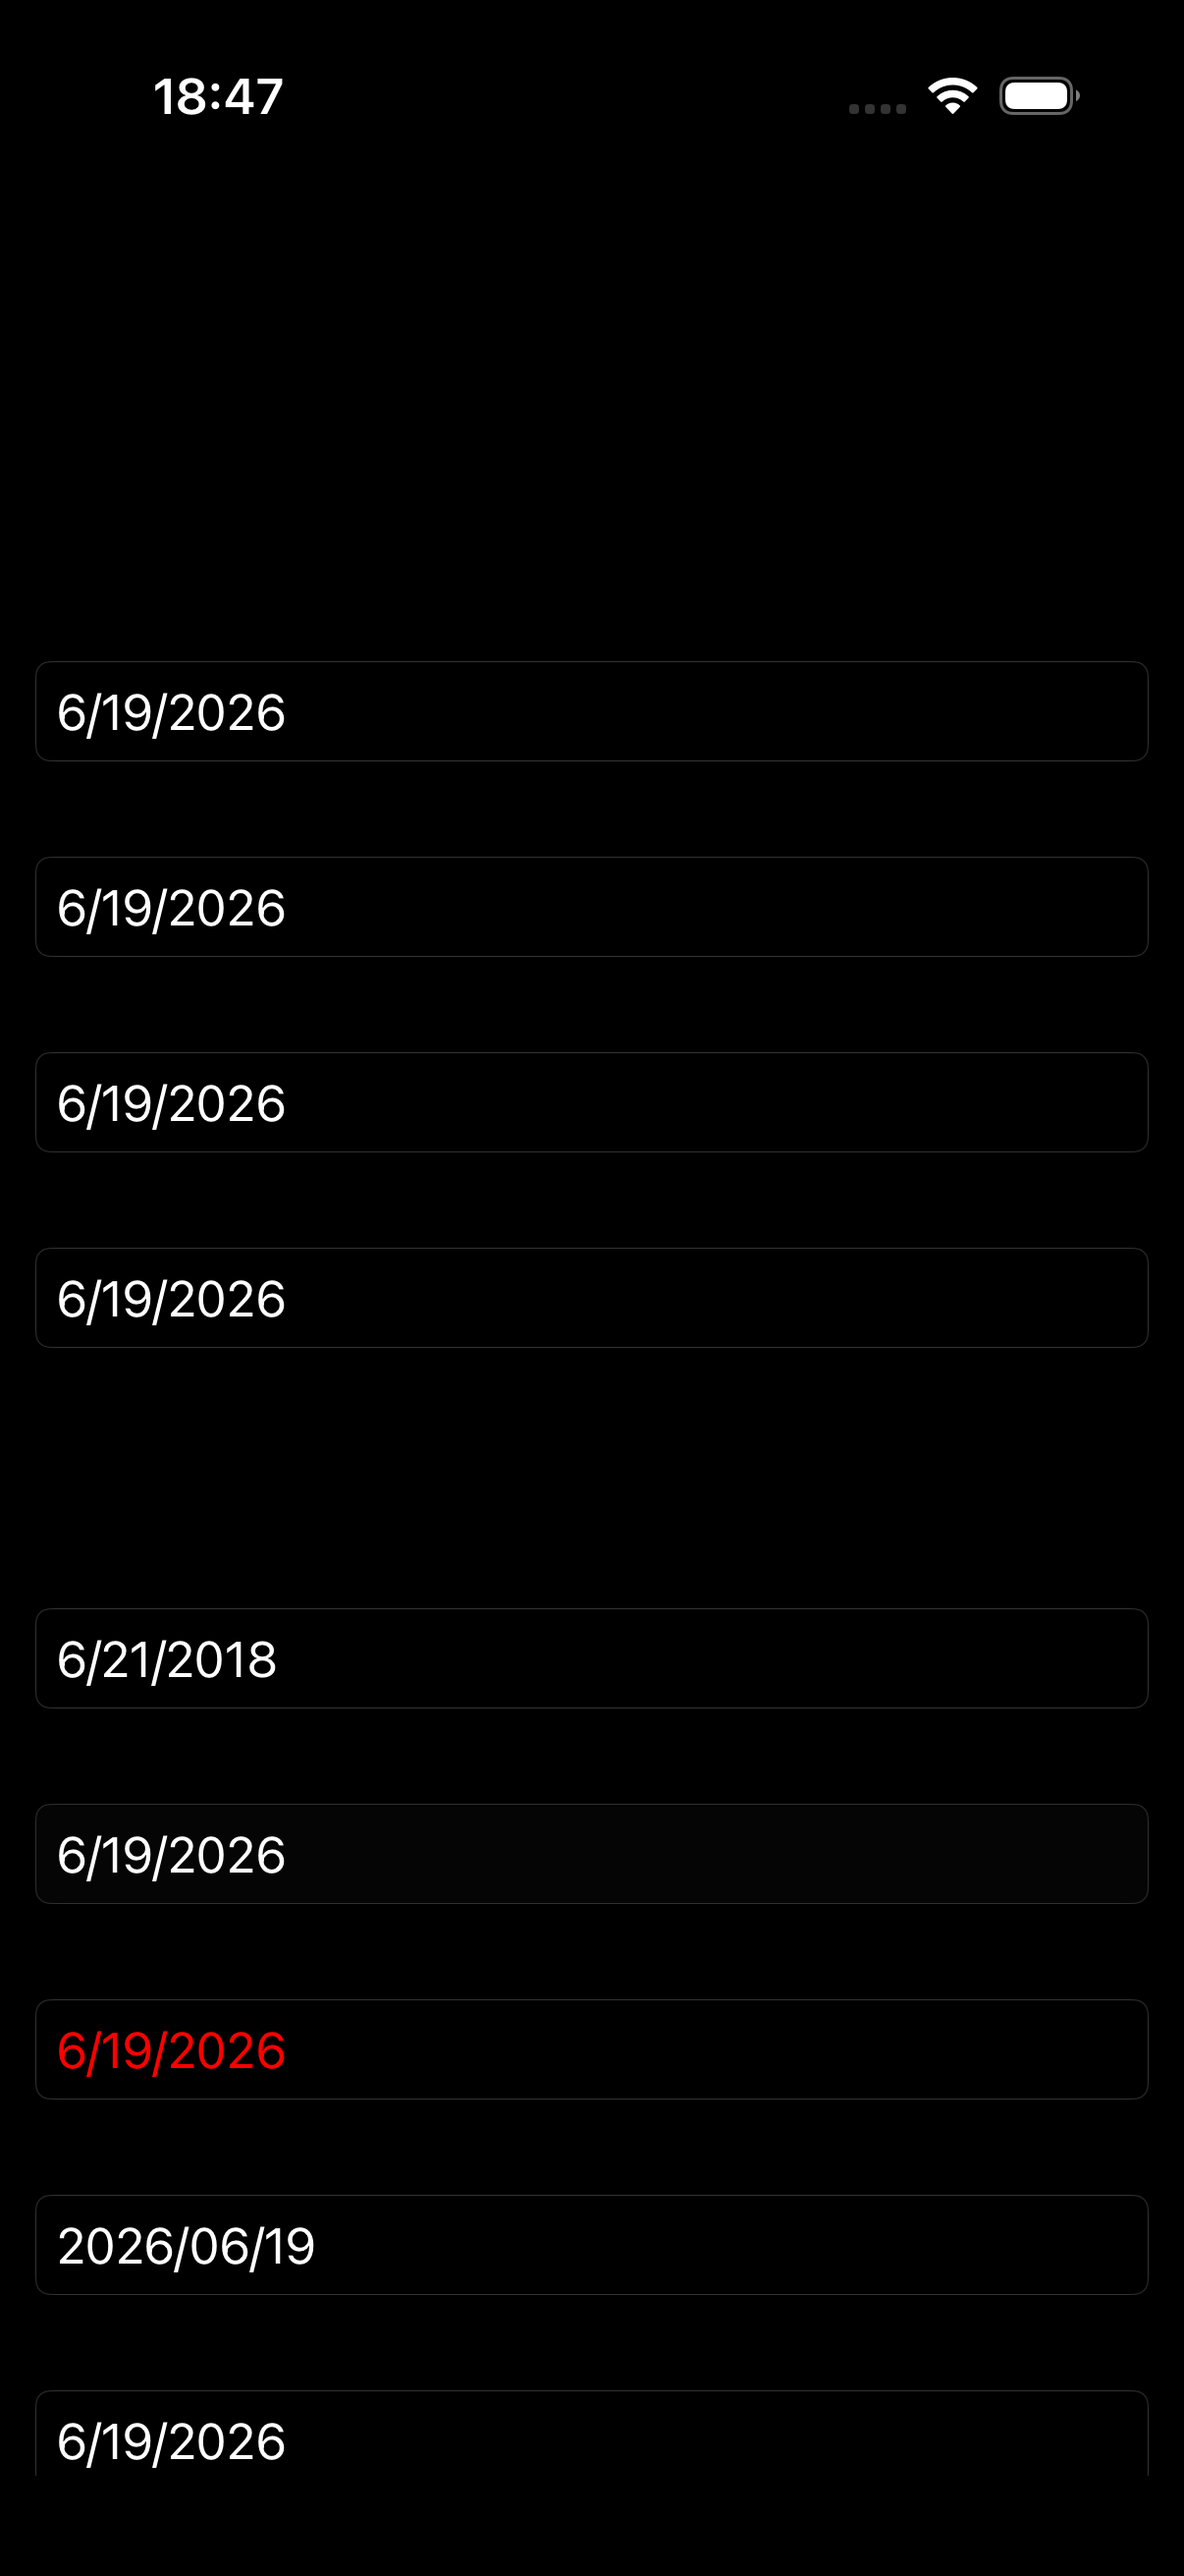
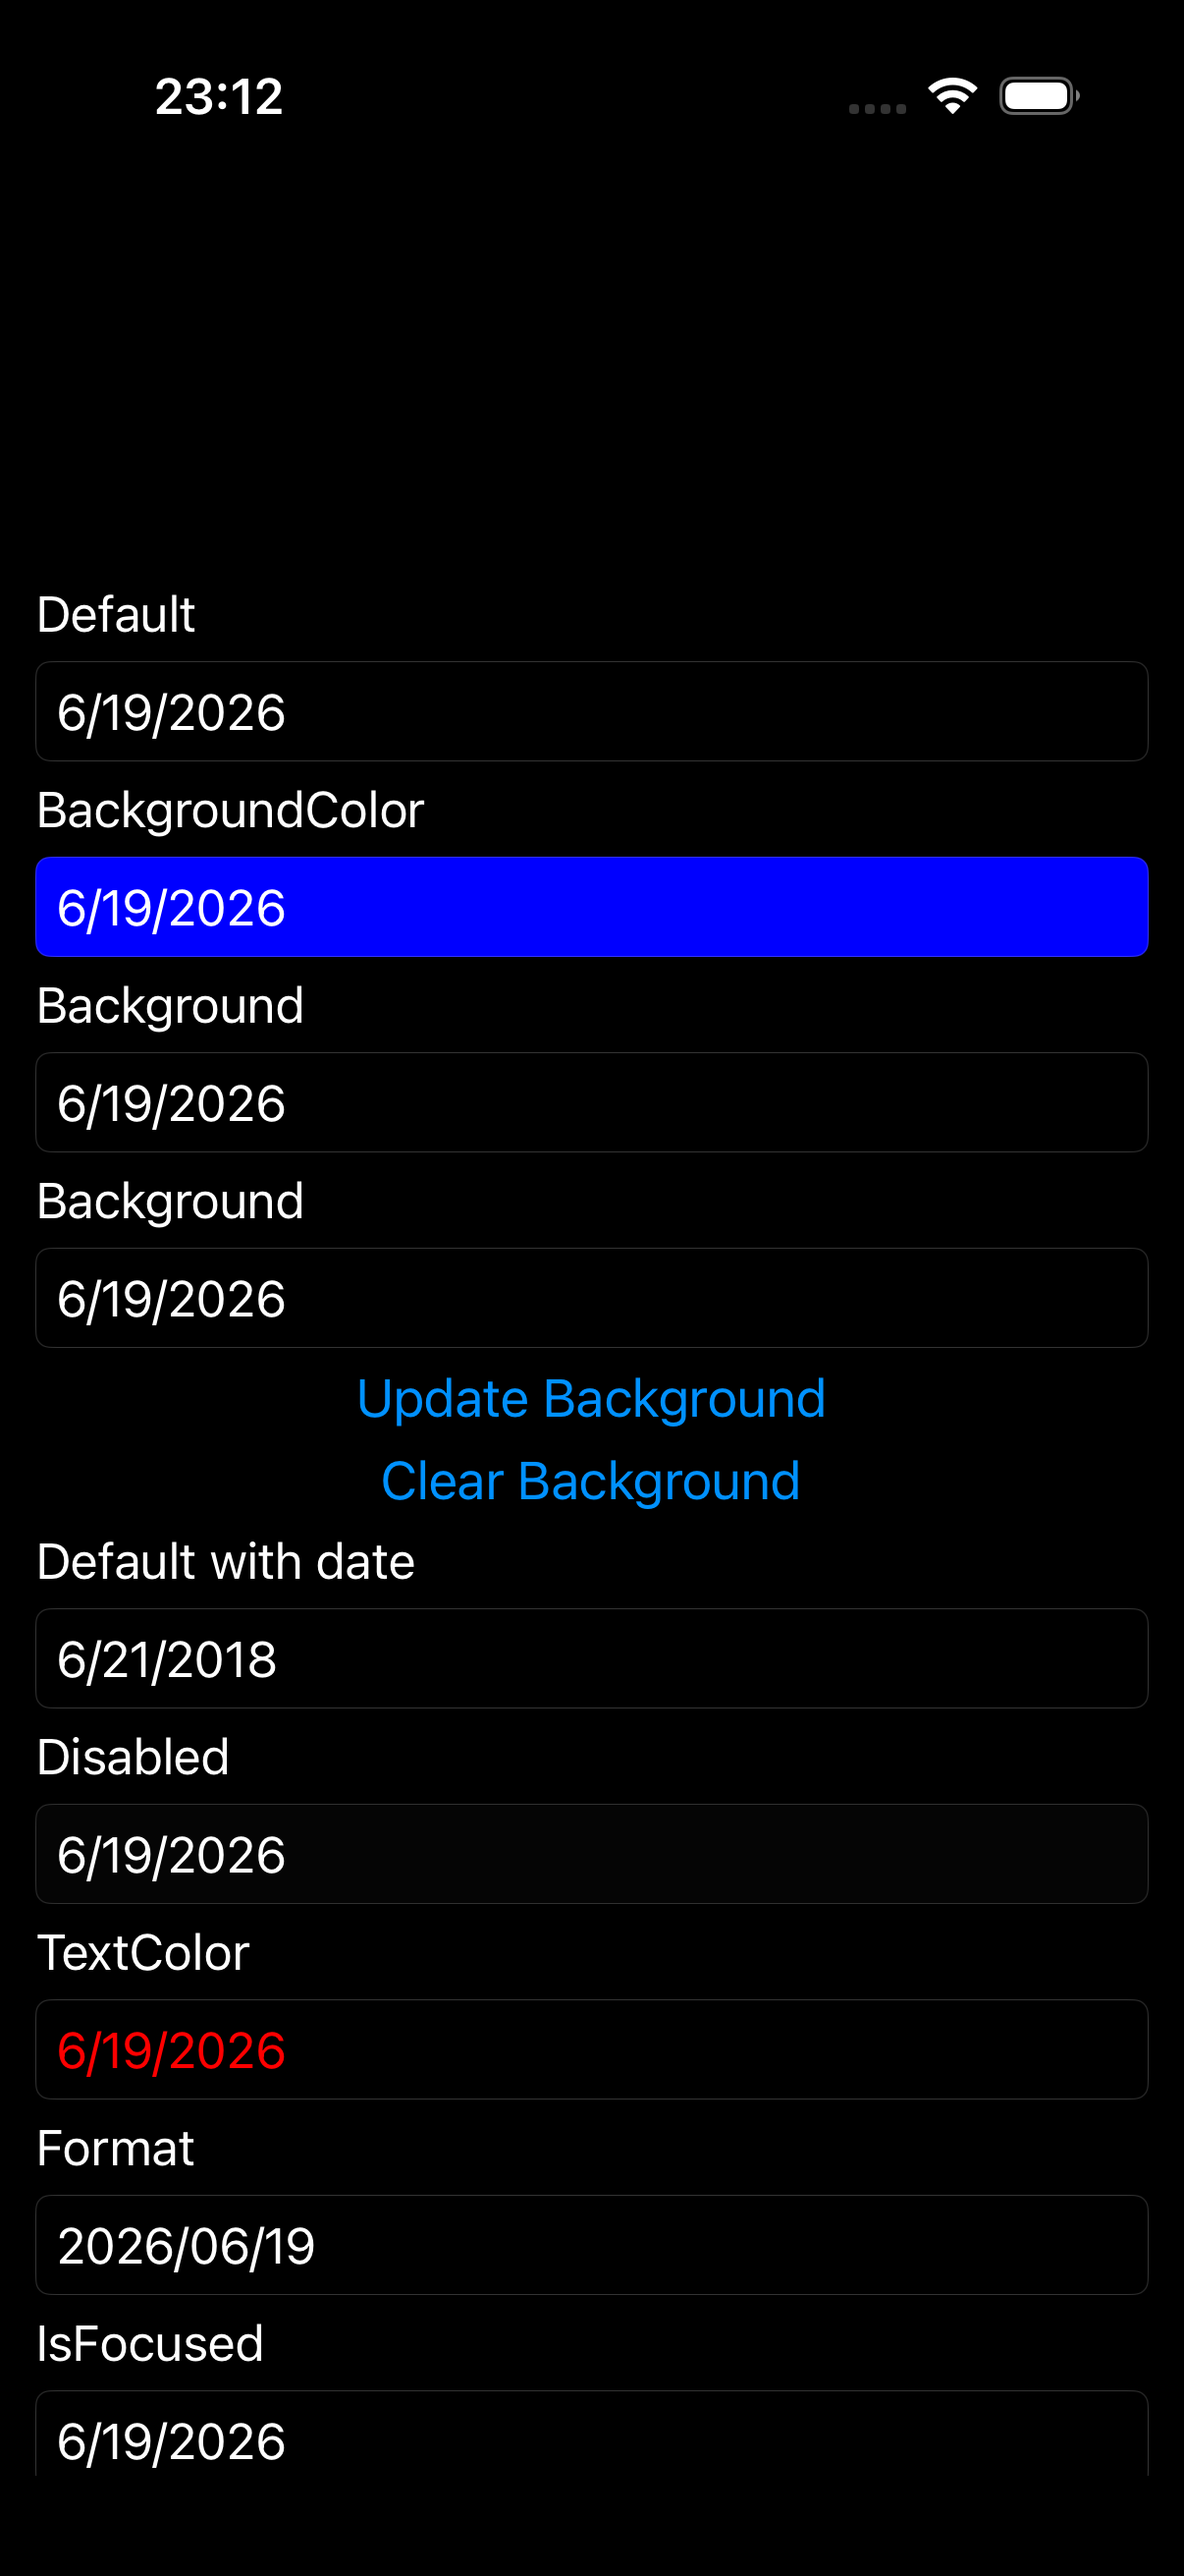
fix(ios,parity): DatePicker pushes solid BackgroundColor to the UITextField (flat fill)
example 7/172 (date_picker): iOS date_picker_platform omitted update_background,
so BackgroundColor=Blue rendered no fill. Now overridden, mirroring the picker:
a solid paint -> the UITextField backgroundColor property (flat fill, RoundedRect
bezel suppressed, matching MAUI); gradient/image -> apply_background; null clears.

Documented residuals (page stays diff): (1) the two gradient 'Background' rows
still show no fill — apply_background sizes the CAGradientLayer to layer.bounds(=0
pre-layout) with no layoutSubviews resize hook (a shared gap across UITextField
controls); (2) date text is invariant US M/d/yyyy — a DELIBERATE port deviation
with iOS test coverage (date_picker_ios_tests asserts '5/5/2008') vs MAUI's
device-locale dd.MM.yyyy; (3) compact vertical rhythm.

diff --git a/port/cpp/src/platform/ios/date_picker_handler.mm b/port/cpp/src/platform/ios/date_picker_handler.mm
@@ -33,6 +33,7 @@
 #include "ios_conversions.hpp"
 #include "ios_done_accessory.hpp"
 #include "ios_text_ops.hpp"
+#include "ios_visual_ops.hpp"
 #include "maui/core/date_picker_handler.hpp"
 #include "maui/core/date_time.hpp"
 #include "maui/core/i_date_picker.hpp"
@@ -41,6 +42,7 @@
 #include "maui/graphics/color.hpp"
 #include "maui/graphics/rect.hpp"
 #include "maui/graphics/size.hpp"
+#include "maui/graphics/solid_paint.hpp"
 
 // Obj-C trampoline for the Done accessory tap — MauiDatePicker's DoneClicked feeding
 // DatePickerHandler.OnDoneClicked → SetVirtualViewDate.
@@ -194,6 +196,28 @@ namespace maui::core
         const std::string id(value);
         NSString* const raw = [NSString stringWithUTF8String:id.c_str()];
         as_field(native).accessibilityIdentifier = raw != nil ? raw : @"";
+    }
+
+    void date_picker_platform::update_background(const maui::graphics::paint* value)
+    {
+        // The MauiDatePicker is a RoundedRect UITextField. A solid BackgroundColor must go to the UIView
+        // backgroundColor PROPERTY (not the backing layer): the rounded-rect bezel is drawn over a layer
+        // fill (so it peeks only at the corners), whereas the view property suppresses the bezel and fills
+        // the field flat — matching MAUI's solid DatePicker fill. Gradient/image paints use the shared
+        // layer machinery; a null paint clears the override back to the system default.
+        UITextField* const field = as_field(native);
+        if (const auto* const solid = dynamic_cast<const maui::graphics::solid_paint*>(value))
+        {
+            field.backgroundColor = maui::platform::ios::to_ui_color(solid->color());
+        }
+        else if (value != nullptr)
+        {
+            maui::platform::ios::apply_background(native, value);
+        }
+        else
+        {
+            field.backgroundColor = nil;
+        }
     }
 
     std::unique_ptr<date_picker_platform> date_picker_handler::create_platform_view()

diff --git a/port/cpp/include/maui/core/date_picker_handler.hpp b/port/cpp/include/maui/core/date_picker_handler.hpp
@@ -80,6 +80,10 @@ namespace maui::core
         void update_opacity(double value) override;
         void update_is_enabled(bool value) override;
         void update_automation_id(std::string_view value) override;
+        // BackgroundColor IS pushed to the MauiDatePicker (a RoundedRect UITextField): a solid fill goes to
+        // the UIView backgroundColor property (flat fill, bezel suppressed, like MAUI); gradient/image use
+        // the shared backing-layer helper. Mirrors the picker handler's update_background.
+        void update_background(const maui::graphics::paint* value) override;
 #endif
     };
 
